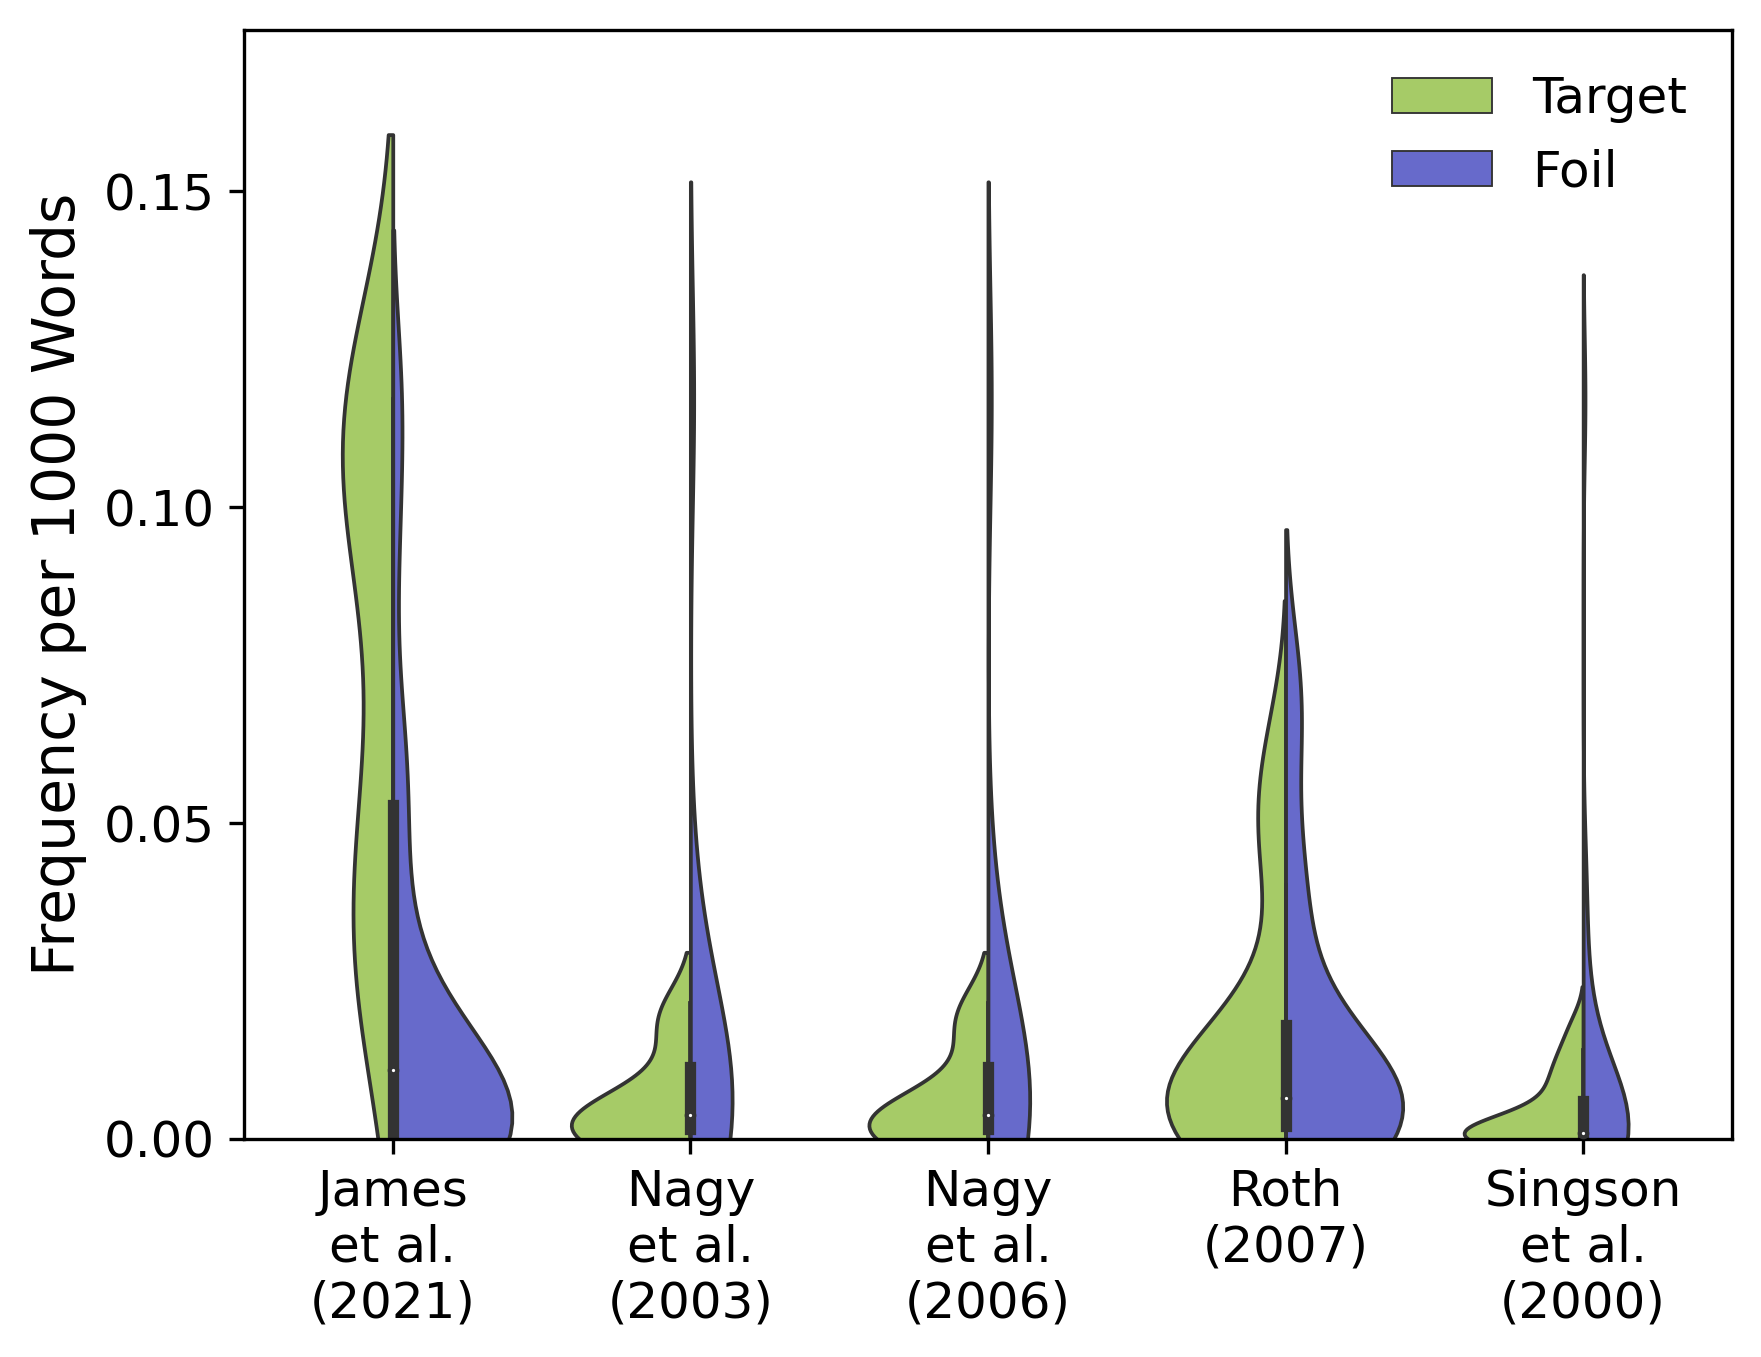
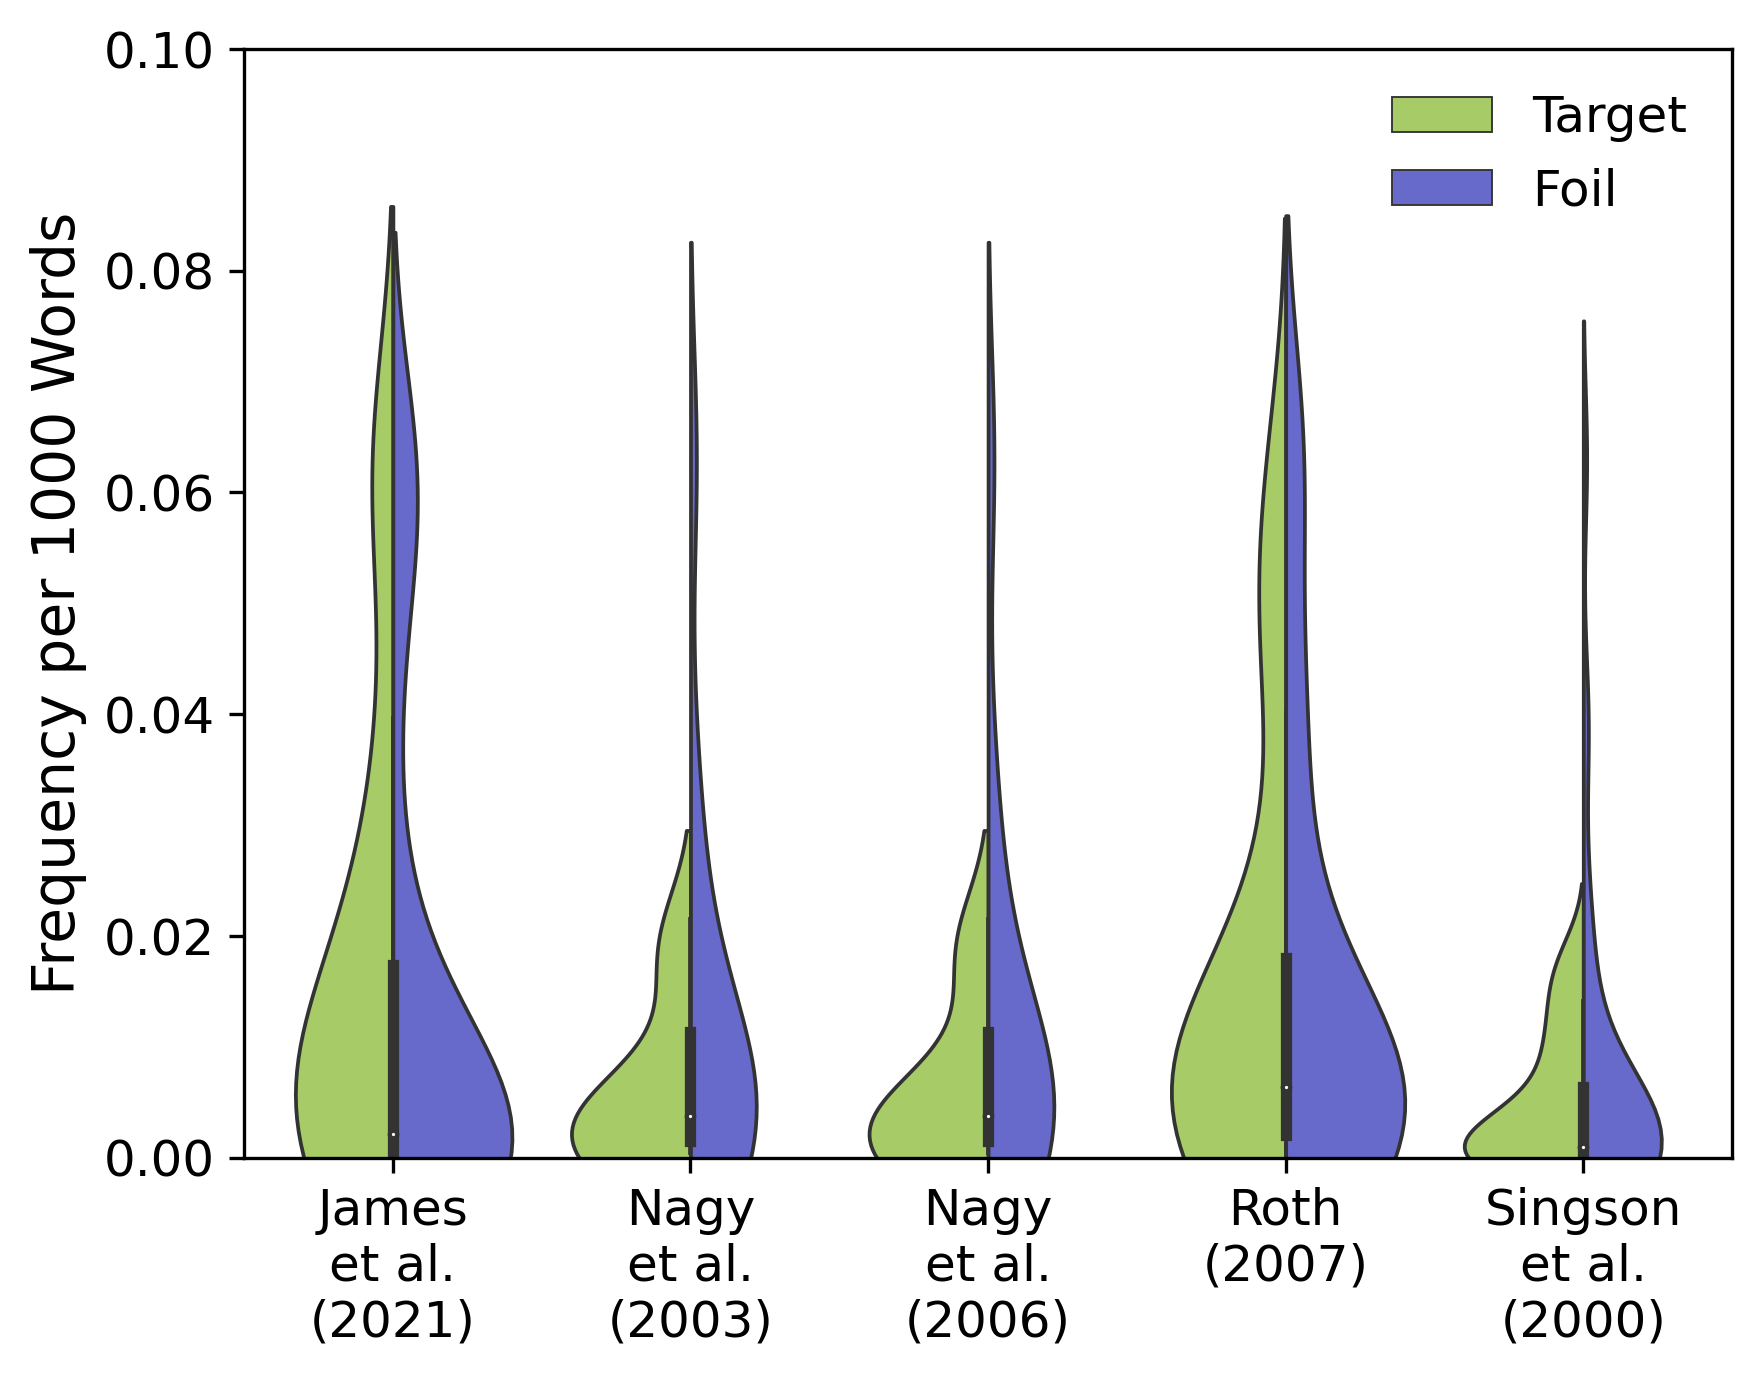
Update violin plots

diff --git a/src/violin_plots/mc_violin_plot.py b/src/violin_plots/mc_violin_plot.py
@@ -45,9 +45,9 @@ sb.violinplot(data=counts_df,
               palette=colors)
 
 plt.xticks(rotation=0, fontsize=12)
-plt.yticks((0, 0.05, 0.1, 0.15), fontsize=12)
+plt.yticks((0, 0.02, 0.04, 0.06, 0.08, 0.10), fontsize=12)
 
-ax.set_ylim([0, max(counts_df[freq_column]) * 1.5])
+ax.set_ylim([0, 0.1])
 
 ax.legend(handles=ax.legend_.legendHandles, labels=hue_order)
 plt.legend(frameon=False, fontsize=12)
